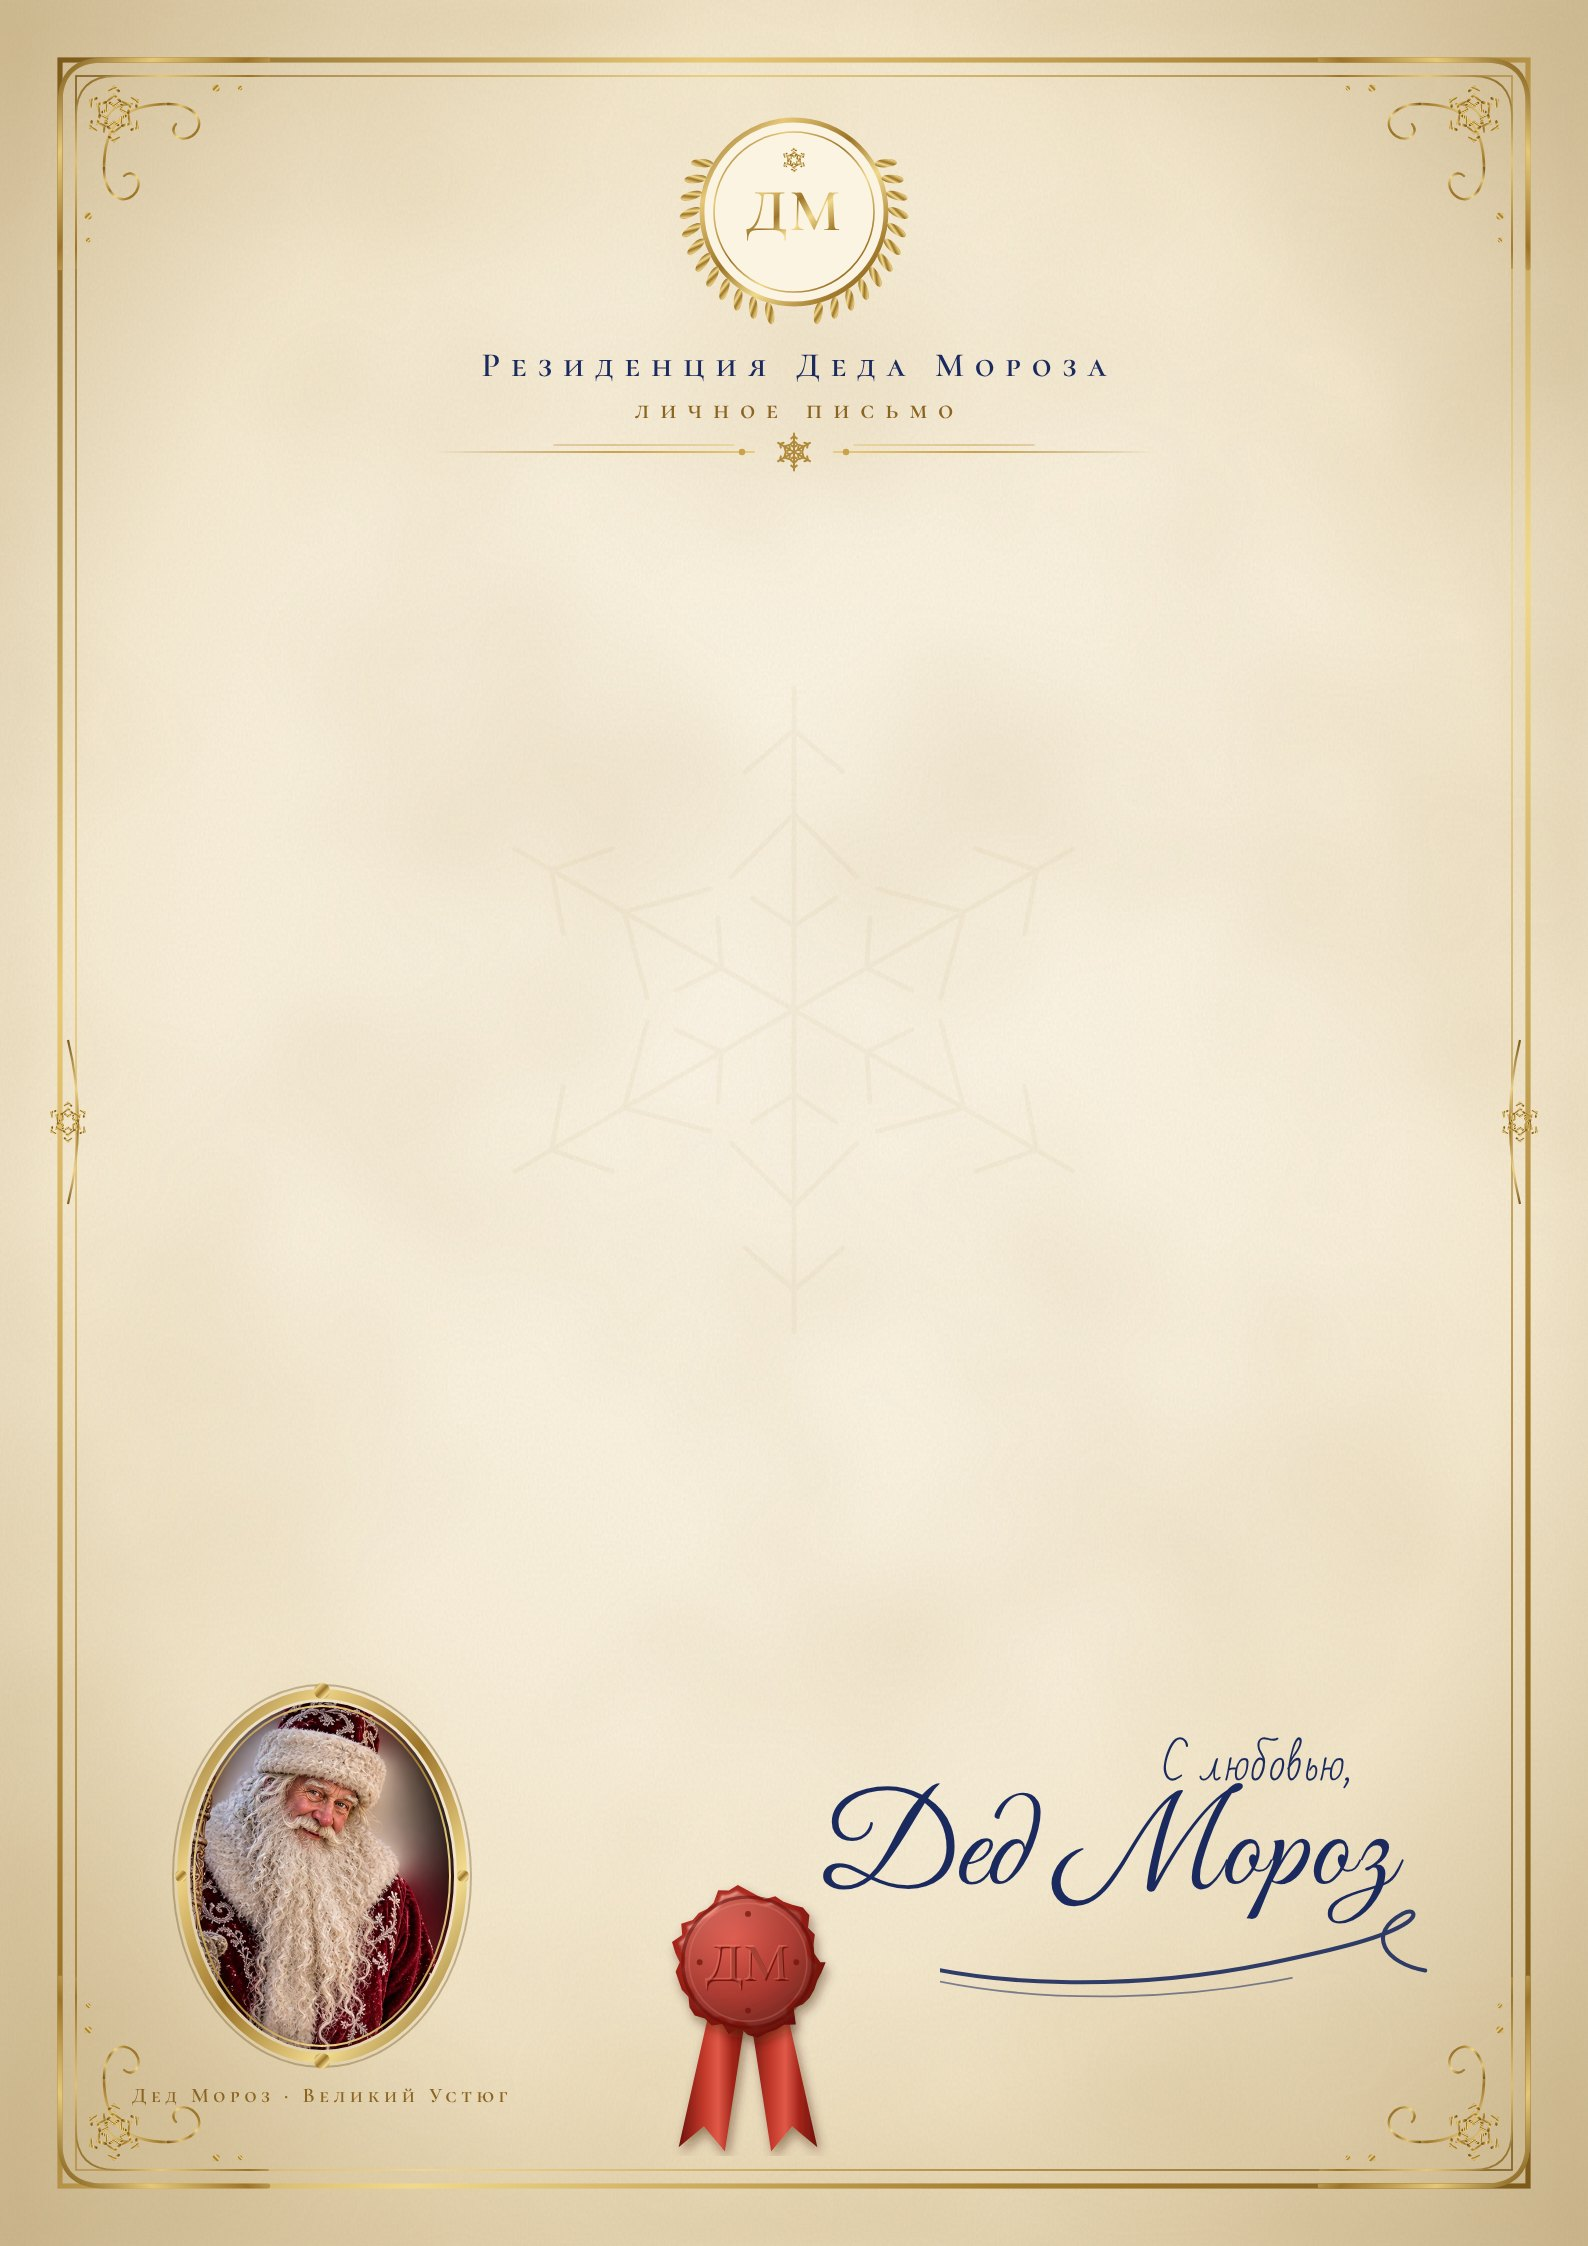
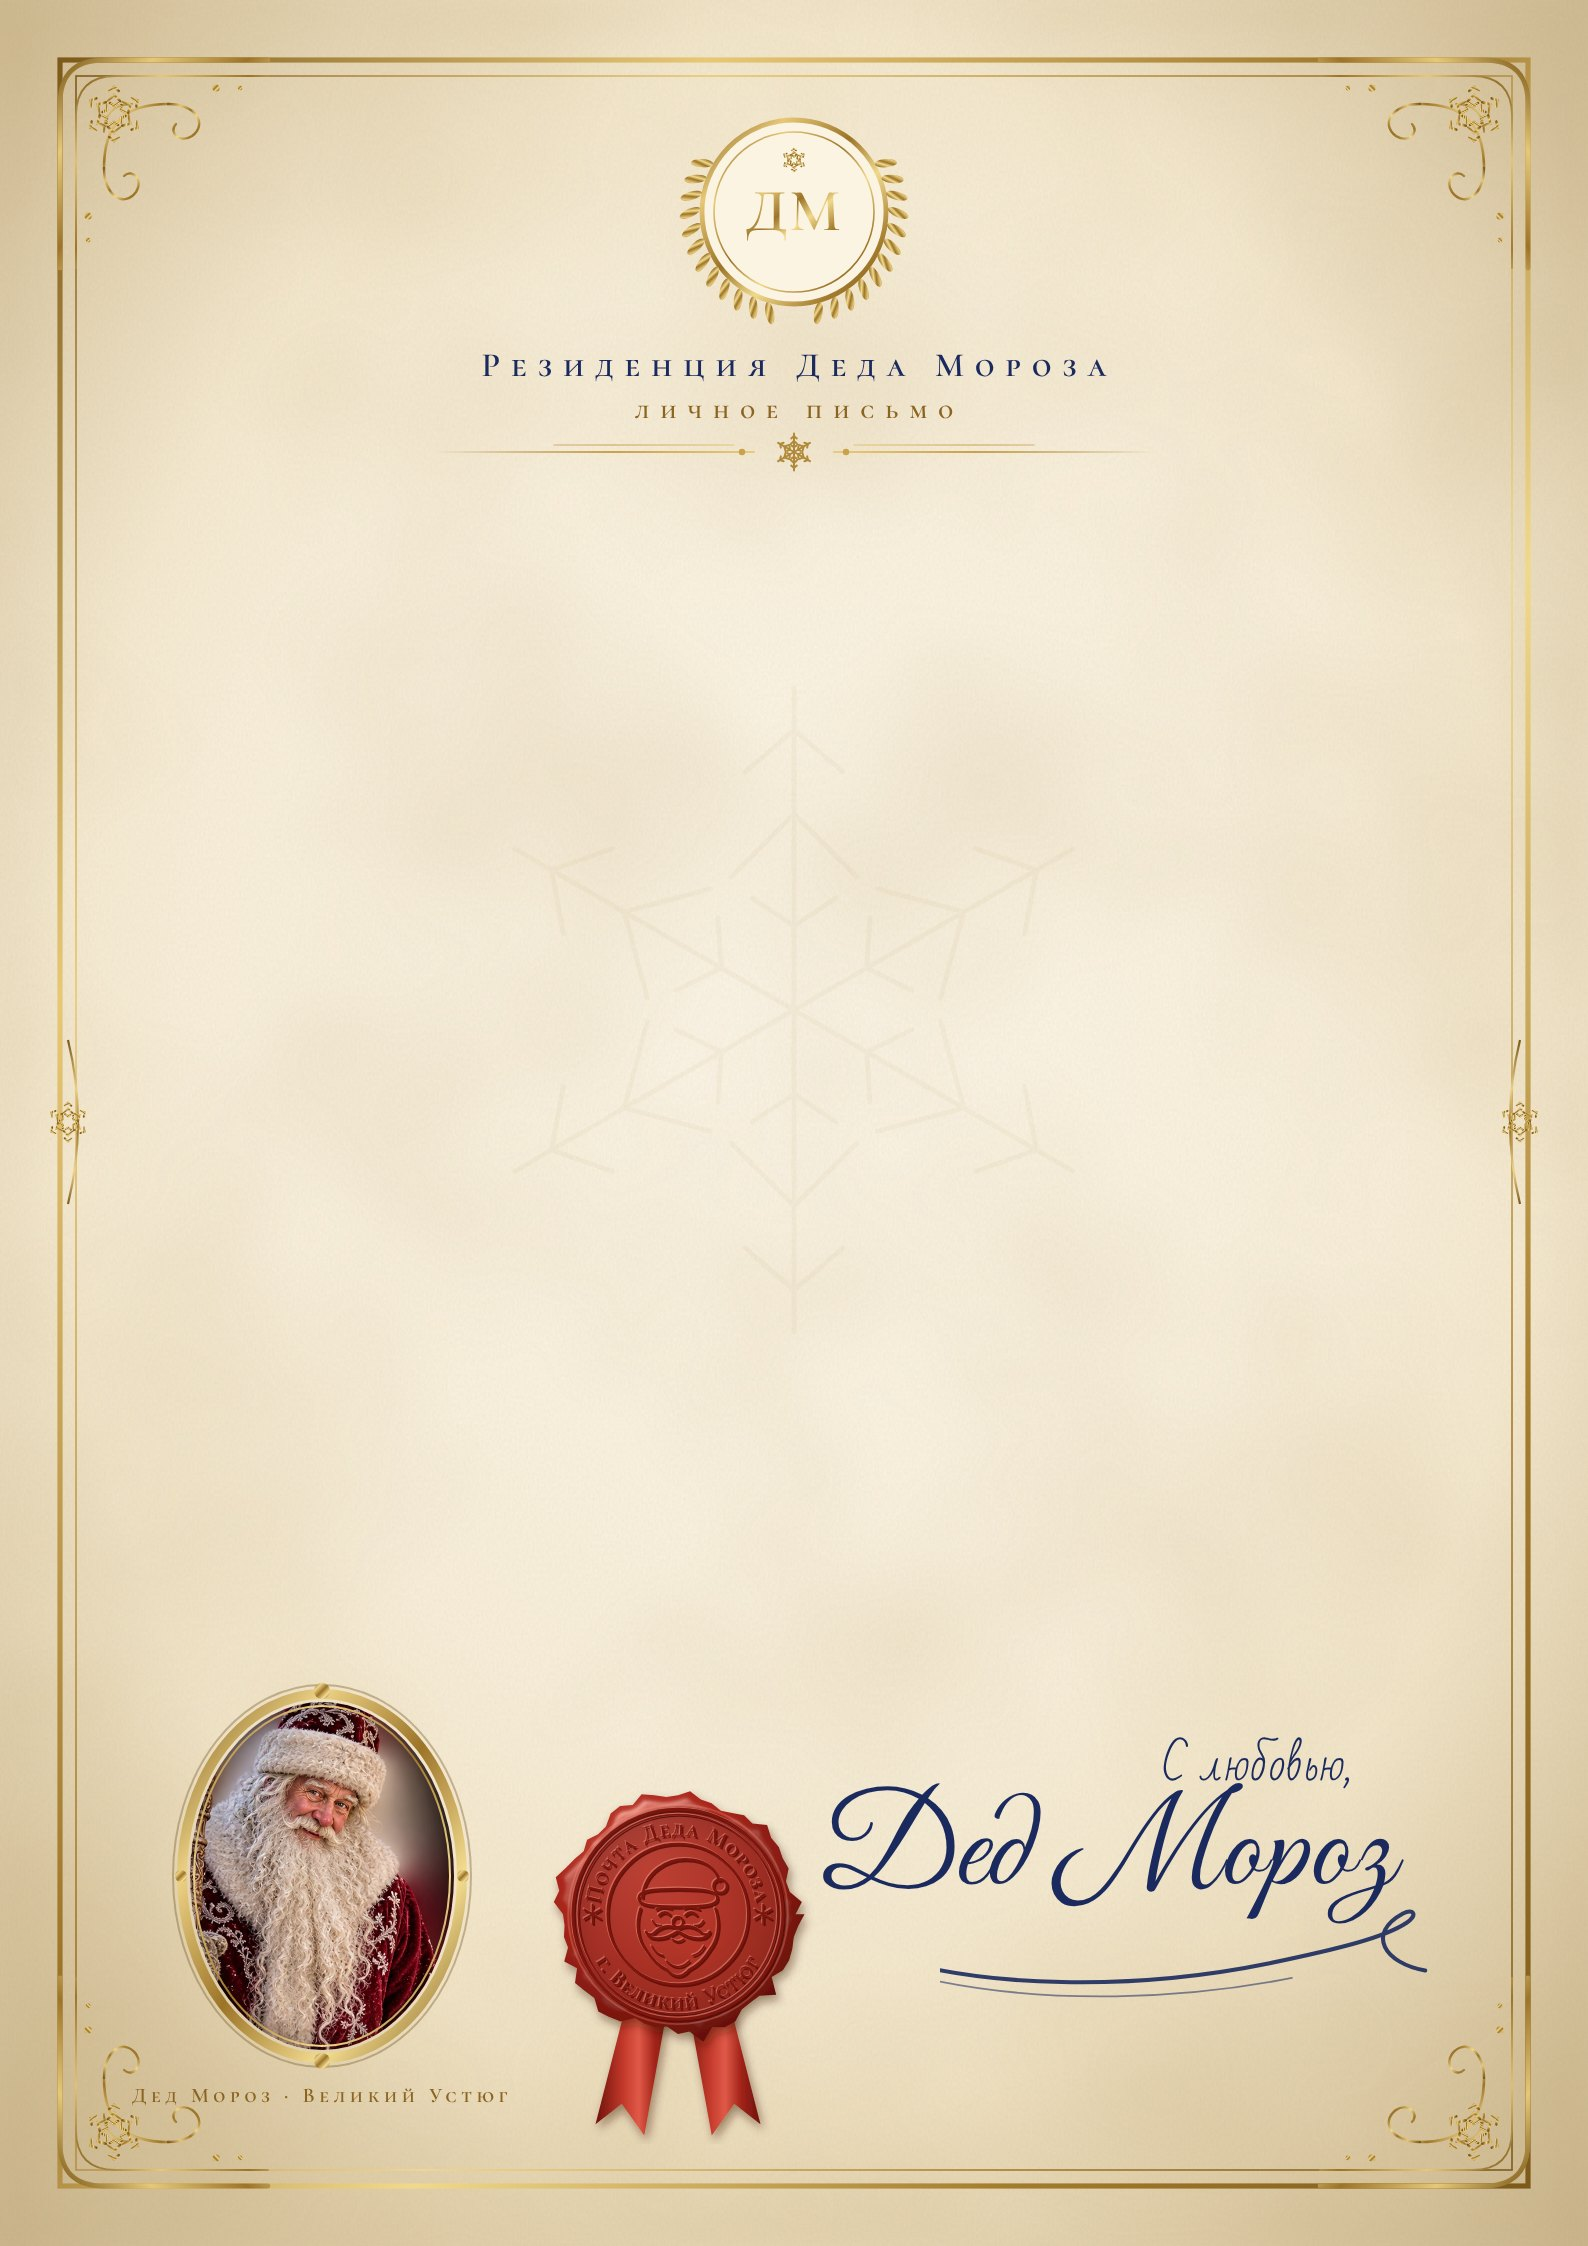
Печать письма в стиле «Почта Деда Мороза · г. Великий Устюг»
Claude-Session: https://claude.ai/code/session_01JNVR2FiKkTxyEAXoVmeucw

Changed region(s): [[0.3394, 0.7792, 0.5246, 0.9662]]

diff --git a/letter/bg.html b/letter/bg.html
@@ -47,7 +47,7 @@ html,body{width:794px;height:1123px;overflow:hidden;background:#efe3c8}
 .sig-flourish{right:74px;top:954px;width:250px;height:46px}
 
 /* печать */
-.seal{left:312px;top:920px;width:124px;height:158px}
+.seal{left:264px;top:884px;width:150px;height:187.5px}
 </style>
 </head>
 <body>
@@ -185,41 +185,91 @@ html,body{width:794px;height:1123px;overflow:hidden;background:#efe3c8}
     <path d="M60 40 C120 52 190 50 250 38" fill="none" stroke="#1b2a5e" stroke-width="1" stroke-linecap="round" opacity=".55"/>
   </svg>
 
-  <!-- сургучная печать с лентами -->
-  <svg class="abs seal" viewBox="0 0 118 150" aria-hidden="true">
+  <!-- сургучная печать «Почта Деда Мороза · г. Великий Устюг» -->
+  <svg class="abs seal" viewBox="0 0 160 200" aria-hidden="true">
     <defs>
       <linearGradient id="rib" x1="0" y1="0" x2="1" y2="0">
         <stop offset="0" stop-color="#6e120c"/><stop offset=".35" stop-color="#c2382a"/>
         <stop offset=".55" stop-color="#e05a48"/><stop offset=".75" stop-color="#a3241a"/><stop offset="1" stop-color="#6e120c"/>
       </linearGradient>
-      <radialGradient id="waxg" cx="40%" cy="35%" r="70%">
-        <stop offset="0" stop-color="#d4473a"/><stop offset=".55" stop-color="#a3241a"/><stop offset="1" stop-color="#5e0d08"/>
+      <radialGradient id="waxg" cx="38%" cy="32%" r="75%">
+        <stop offset="0" stop-color="#d8493b"/><stop offset=".5" stop-color="#a8261b"/><stop offset="1" stop-color="#5a0c07"/>
+      </radialGradient>
+      <radialGradient id="waxIn" cx="60%" cy="65%" r="70%">
+        <stop offset="0" stop-color="#b4301f"/><stop offset=".7" stop-color="#951f15"/><stop offset="1" stop-color="#6a100a"/>
       </radialGradient>
       <filter id="emboss" x="-20%" y="-20%" width="140%" height="140%">
-        <feGaussianBlur in="SourceAlpha" stdDeviation="1.6" result="b"/>
-        <feSpecularLighting in="b" surfaceScale="3.5" specularConstant=".7" specularExponent="18" lighting-color="#ffd9c8" result="s">
-          <fePointLight x="20" y="-10" z="60"/>
+        <feGaussianBlur in="SourceAlpha" stdDeviation="2.2" result="b"/>
+        <feSpecularLighting in="b" surfaceScale="4" specularConstant=".75" specularExponent="16" lighting-color="#ffd9c8" result="s">
+          <fePointLight x="30" y="-20" z="80"/>
         </feSpecularLighting>
         <feComposite in="s" in2="SourceAlpha" operator="in" result="s2"/>
-        <feComposite in="SourceGraphic" in2="s2" operator="arithmetic" k1="0" k2="1" k3=".55" k4="0"/>
+        <feComposite in="SourceGraphic" in2="s2" operator="arithmetic" k1="0" k2="1" k3=".5" k4="0"/>
       </filter>
       <filter id="shadow" x="-30%" y="-30%" width="160%" height="160%">
         <feDropShadow dx="1.5" dy="3" stdDeviation="2.5" flood-color="#3a1505" flood-opacity=".45"/>
       </filter>
+      <path id="arcTop" d="M -42 0 A 42 42 0 0 1 42 0"/>
+      <path id="arcBot" d="M -50.5 0 A 50.5 50.5 0 0 0 50.5 0"/>
+      <!-- оттиск: всё, что выдавлено в сургуче -->
+      <g id="stamp" fill="none" stroke-linecap="round" stroke-linejoin="round">
+        <circle r="56" stroke-width="1.6"/>
+        <circle r="53.2" stroke-width=".7"/>
+        <circle r="37.5" stroke-width="1.3"/>
+        <g stroke-width="1.1">
+          <g transform="translate(-45.5 0)"><path d="M0 -5V5M-4.3 -2.5L4.3 2.5M-4.3 2.5L4.3 -2.5"/></g>
+          <g transform="translate(45.5 0)"><path d="M0 -5V5M-4.3 -2.5L4.3 2.5M-4.3 2.5L4.3 -2.5"/></g>
+        </g>
+        <!-- Дед Мороз -->
+        <g stroke-width="1.35">
+          <!-- шапка -->
+          <path d="M-19 -9 C-18 -22 -6 -31 8 -29 C15 -28 20 -24 22 -18"/>
+          <circle cx="22.5" cy="-15" r="3.6"/>
+          <path d="M-21 -8.5 C-21 -12.5 -14 -13.5 0 -13.5 C14 -13.5 21 -12.5 21 -8.5 C21 -4.5 14 -4 0 -4 C-14 -4 -21 -4.5 -21 -8.5 Z"/>
+          <!-- глаза-улыбки и брови -->
+          <path d="M-10 0.5 Q-7 -2.6 -4 0.5"/><path d="M4 0.5 Q7 -2.6 10 0.5"/>
+          <path d="M-11.5 -2.6 Q-7.5 -4.6 -3.5 -3" stroke-width="1"/><path d="M3.5 -3 Q7.5 -4.6 11.5 -2.6" stroke-width="1"/>
+          <!-- нос и щёки -->
+          <circle cx="0" cy="4.2" r="2.7"/>
+          <path d="M-13.5 3.5 Q-12 6.5 -9 6" stroke-width=".9"/><path d="M13.5 3.5 Q12 6.5 9 6" stroke-width=".9"/>
+          <!-- усы -->
+          <path d="M-0.5 7.6 C-4 5.6 -9 6 -12.5 9.8 C-14 11.4 -16.5 11 -17 9.4 C-15 14.6 -7 13.6 -0.5 9.4"/>
+          <path d="M0.5 7.6 C4 5.6 9 6 12.5 9.8 C14 11.4 16.5 11 17 9.4 C15 14.6 7 13.6 0.5 9.4"/>
+          <!-- рот -->
+          <path d="M-3 13.4 Q0 15.8 3 13.4" stroke-width="1"/>
+          <!-- борода -->
+          <path d="M-20 -3 C-23 6 -21 14 -17 19 C-14 24 -10 27.5 -6 29.5 C-4 32 -1.5 33 0 33 C1.5 33 4 32 6 29.5 C10 27.5 14 24 17 19 C21 14 23 6 20 -3"/>
+          <path d="M-14 17 Q-12 21 -8 22 M-6 25 Q-3 28 0 28 Q3 28 6 25 M14 17 Q12 21 8 22" stroke-width=".85"/>
+        </g>
+      </g>
     </defs>
     <g filter="url(#shadow)">
-      <path d="M44 66 L26 146 L38 136 L48 148 L60 70 Z" fill="url(#rib)"/>
-      <path d="M74 66 L92 146 L80 136 L70 148 L58 70 Z" fill="url(#rib)"/>
+      <path d="M58 104 L36 190 L50 179 L62 196 L78 108 Z" fill="url(#rib)"/>
+      <path d="M102 104 L124 190 L110 179 L98 196 L82 108 Z" fill="url(#rib)"/>
     </g>
     <g filter="url(#shadow)">
       <path id="blob" fill="url(#waxg)" filter="url(#emboss)"/>
     </g>
-    <circle cx="59" cy="58" r="31" fill="none" stroke="#5e0d08" stroke-opacity=".55" stroke-width="1.6"/>
-    <circle cx="59" cy="58" r="28" fill="none" stroke="#ff9d86" stroke-opacity=".22" stroke-width=".8"/>
-    <text x="59" y="67" text-anchor="middle" font-family="Cormorant SC" font-weight="600" font-size="26" fill="#6e120c" opacity=".9">ДМ</text>
-    <text x="58.3" y="66.2" text-anchor="middle" font-family="Cormorant SC" font-weight="600" font-size="26" fill="#ff8f78" opacity=".35">ДМ</text>
-    <g transform="translate(59 58)" fill="#6e120c" opacity=".7">
-      <circle cy="-23" r="1.4"/><circle cy="23" r="1.4"/><circle cx="-23" r="1.4"/><circle cx="23" r="1.4"/>
+    <g transform="translate(80 78)">
+      <!-- поле печати чуть утоплено -->
+      <circle r="57.5" fill="url(#waxIn)" opacity=".55"/>
+      <circle r="58.6" fill="none" stroke="#ff9d86" stroke-opacity=".28" stroke-width="1"/>
+      <!-- рельеф: тень снизу-справа, блик сверху-слева, сам оттиск -->
+      <use href="#stamp" transform="translate(.7 .9)" stroke="#4a0804" fill="#4a0804" opacity=".75"/>
+      <use href="#stamp" transform="translate(-.6 -.6)" stroke="#ffb3a0" fill="#ffb3a0" opacity=".4"/>
+      <use href="#stamp" stroke="#7e150d" fill="#7e150d"/>
+      <g transform="translate(.7 .9)" fill="#4a0804" opacity=".75" font-family="Cormorant SC" font-weight="600" font-size="12.2" letter-spacing=".6">
+        <text><textPath href="#arcTop" startOffset="50%" text-anchor="middle">Почта Деда Мороза</textPath></text>
+        <text><textPath href="#arcBot" startOffset="50%" text-anchor="middle">г. Великий Устюг</textPath></text>
+      </g>
+      <g transform="translate(-.6 -.6)" fill="#ffb3a0" opacity=".4" font-family="Cormorant SC" font-weight="600" font-size="12.2" letter-spacing=".6">
+        <text><textPath href="#arcTop" startOffset="50%" text-anchor="middle">Почта Деда Мороза</textPath></text>
+        <text><textPath href="#arcBot" startOffset="50%" text-anchor="middle">г. Великий Устюг</textPath></text>
+      </g>
+      <g transform="translate(0 0)" fill="#7e150d" opacity="1" font-family="Cormorant SC" font-weight="600" font-size="12.2" letter-spacing=".6">
+        <text><textPath href="#arcTop" startOffset="50%" text-anchor="middle">Почта Деда Мороза</textPath></text>
+        <text><textPath href="#arcBot" startOffset="50%" text-anchor="middle">г. Великий Устюг</textPath></text>
+      </g>
     </g>
   </svg>
 </div>
@@ -241,11 +291,11 @@ html,body{width:794px;height:1123px;overflow:hidden;background:#efe3c8}
     }
   }
   /* неровный край сургуча */
-  var p = '', R = 34, seed = 7;
+  var p = '', R = 63, seed = 7;
   function rnd(){ seed = (seed*9301 + 49297) % 233280; return seed/233280; }
-  for(var k = 0; k <= 48; k++){
-    var t = k/48*Math.PI*2, rr = R + (rnd() - 0.5)*4 + Math.sin(t*6)*1.6 + (k % 7 === 0 ? 3 : 0);
-    p += (k ? ' L ' : 'M ') + (59 + Math.cos(t)*rr).toFixed(2) + ' ' + (58 + Math.sin(t)*rr).toFixed(2);
+  for(var k = 0; k <= 64; k++){
+    var t = k/64*Math.PI*2, rr = R + (rnd() - 0.5)*5 + Math.sin(t*6)*2 + (k % 7 === 0 ? 4.5 : 0);
+    p += (k ? ' L ' : 'M ') + (80 + Math.cos(t)*rr).toFixed(2) + ' ' + (78 + Math.sin(t)*rr).toFixed(2);
   }
   document.getElementById('blob').setAttribute('d', p + ' Z');
 })();
